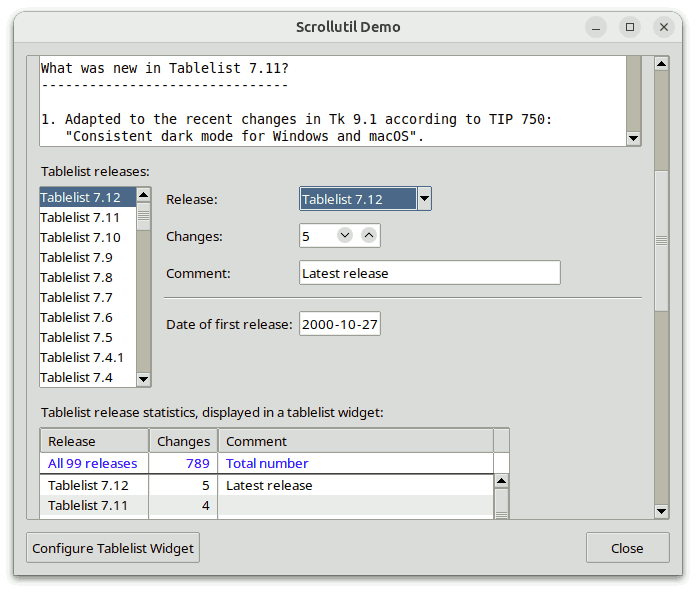
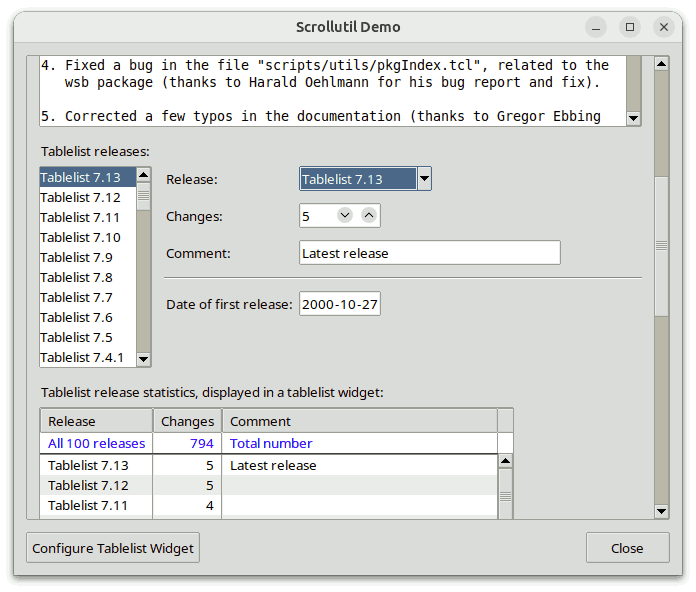
Scrollutil: Updated for version 2.12. See the ChangeLog for details.

diff --git a/modules/scrollutil/doc/scrollutil.html b/modules/scrollutil/doc/scrollutil.html
@@ -14,7 +14,7 @@
   <div>
     <h1>Scrollutil Programmer's Guide</h1>
 
-    <h2>For Scrollutil Version 2.11</h2>
+    <h2>For Scrollutil Version 2.12</h2>
 
     <h3>by</h3>
 
@@ -337,8 +337,8 @@
     </address>
   </blockquote>
 
-  <p>The distribution file is <code>scrollutil2.11.tar.gz</code> for UNIX and
-  <code>scrollutil2_11.zip</code> for Windows.&nbsp; These files contain the
+  <p>The distribution file is <code>scrollutil2.12.tar.gz</code> for UNIX and
+  <code>scrollutil2_12.zip</code> for Windows.&nbsp; These files contain the
   same information, except for the additional carriage return character
   preceding the linefeed at the end of each line in the text files for
   Windows.</p>
@@ -361,27 +361,27 @@
 
   <p>To install Scrollutil <i>on UNIX</i>, <code>cd</code> to the desired
   directory and unpack the distribution file
-  <code>scrollutil2.11.tar.gz</code>:</p>
+  <code>scrollutil2.12.tar.gz</code>:</p>
 
   <blockquote>
     <pre>
-gunzip -c scrollutil2.11.tar.gz | tar -xf - </pre>
+gunzip -c scrollutil2.12.tar.gz | tar -xf - </pre>
   </blockquote>
 
   <p>On most UNIX systems this can be replaced with</p>
 
   <blockquote>
     <pre>
-tar -zxf scrollutil2.11.tar.gz </pre>
+tar -zxf scrollutil2.12.tar.gz </pre>
   </blockquote>
 
-  <p>Both commands will create a directory named <code>scrollutil2.11</code>,
+  <p>Both commands will create a directory named <code>scrollutil2.12</code>,
   with the subdirectories <code>demos</code>, <code>doc</code>, and
   <code>scripts</code>.</p>
 
   <p><i>On Windows</i>, use WinZip or some other program capable of unpacking
-  the distribution file <code>scrollutil2_11.zip</code> into the directory
-  <code>scrollutil2.11</code>, with the subdirectories <code>demos</code>,
+  the distribution file <code>scrollutil2_12.zip</code> into the directory
+  <code>scrollutil2.12</code>, with the subdirectories <code>demos</code>,
   <code>doc</code>, and <code>scripts</code>.</p>
 
   <p>Notice that in tklib the Scrollutil <code>demos</code> directory is
@@ -1495,7 +1495,7 @@ foreach country $countryList {
   command, thus making sure that the mouse button 2 events sent to the widget
   will only be handled by the widget itself if it has the focus, otherwise they
   will result in scanning the scrollableframe's content.&nbsp; During the scan
-  the cursor will take on the shape of a pointing hand, and by draggging the
+  the cursor will take on the shape of a pointing hand, and by dragging the
   mouse, the content frame will drag at high speed through the window, in the
   direction the mouse moves.</p>
 
@@ -2307,13 +2307,9 @@ proc restoreSel nb {
 # Set the scrollednotebook's -height and -width options to the
 # maximum requested height and width of all panes, respectively
 #</span>
-after 50 [list resizeNb $nb]
-
-proc resizeNb nb {
-    <span class="red">$nb adjustsize
-    foreach sa [$nb tabs] {
-        $sa configure -yscrollbarmode dynamic</span>                   ;<span class="cmt"># the default</span>
-    }
+<span class="red">$nb adjustsize
+foreach sa [$nb tabs] {
+    $sa configure -yscrollbarmode dynamic</span>               ;<span class="cmt"># restore the default</span>
 }
 </pre>
   </blockquote>

diff --git a/modules/scrollutil/doc/plainnotebook.html b/modules/scrollutil/doc/plainnotebook.html
@@ -13,7 +13,7 @@
   <div>
     <h1>The <code><b>scrollutil::plainnotebook</b></code> Command</h1>
 
-    <h2>For Scrollutil Version 2.11</h2>
+    <h2>For Scrollutil Version 2.12</h2>
 
     <h3>by</h3>
 
@@ -703,7 +703,7 @@ package require scrollutil_tile
         added to the pagesman widget later.</dd>
 
         <dd class="tm">This subcommand, together with the <code><b><a href=
-        "#caller">-caller</a></b></code> option, makes it easy to to write
+        "#caller">-caller</a></b></code> option, makes it easy to write
         applications in which the user can descend from a plainnotebook to
         another one within a common pagesman parent with a single mouse click
         and switch back in the same way to the original one.&nbsp; For example,

diff --git a/modules/scrollutil/doc/index.html b/modules/scrollutil/doc/index.html
@@ -1,7 +1,7 @@
 <!DOCTYPE html>
 <html>
 <head>
-  <title>The Scrolling Utilities Package Scrollutil 2.11</title>
+  <title>The Scrolling Utilities Package Scrollutil 2.12</title>
 
   <meta name="Author" content="Csaba Nemethi">
   <meta name="Keywords" content=
@@ -12,7 +12,7 @@
 
 <body>
   <div>
-    <h1>The Scrolling Utilities Package Scrollutil 2.11</h1>
+    <h1>The Scrolling Utilities Package Scrollutil 2.12</h1>
 
     <h3>by</h3>
 

diff --git a/modules/scrollutil/doc/scrollableframe.html b/modules/scrollutil/doc/scrollableframe.html
@@ -15,7 +15,7 @@
     <h1>The <code><b>scrollutil::scrollableframe</b></code> and<br>
     <code><b>scrollutil::adaptBtn2EventHandling</b></code> Commands</h1>
 
-    <h2>For Scrollutil Version 2.11</h2>
+    <h2>For Scrollutil Version 2.12</h2>
 
     <h3>by</h3>
 

diff --git a/modules/scrollutil/doc/scrollednotebook.html b/modules/scrollutil/doc/scrollednotebook.html
@@ -16,7 +16,7 @@
     <h1>The <code><b>scrollutil::scrollednotebook</b></code> Command<br>
     and the <code><b>closetab</b></code> Style Element</h1>
 
-    <h2>For Scrollutil Version 2.11</h2>
+    <h2>For Scrollutil Version 2.12</h2>
 
     <h3>by</h3>
 

diff --git a/modules/scrollutil/doc/scrollarea.html b/modules/scrollutil/doc/scrollarea.html
@@ -15,7 +15,7 @@
     <h1>The <code><b>scrollutil::scrollarea</b></code> and<br>
     <code><b>scrollutil::getscrollarea</b></code> Commands</h1>
 
-    <h2>For Scrollutil Version 2.11</h2>
+    <h2>For Scrollutil Version 2.12</h2>
 
     <h3>by</h3>
 

diff --git a/modules/scrollutil/doc/scrollsync.html b/modules/scrollutil/doc/scrollsync.html
@@ -15,7 +15,7 @@
     <h1>The <code><b>scrollutil::scrollsync</b></code> and<br>
     <code><b>scrollutil::getscrollsync</b></code> Commands</h1>
 
-    <h2>For Scrollutil Version 2.11</h2>
+    <h2>For Scrollutil Version 2.12</h2>
 
     <h3>by</h3>
 

diff --git a/modules/scrollutil/doc/wheelEvent.html b/modules/scrollutil/doc/wheelEvent.html
@@ -16,7 +16,7 @@
     <h1>Commands Related to Mouse Wheel and
     <code><b>&lt;TouchpadScroll&gt;</b></code> Event Handling</h1>
 
-    <h2>For Scrollutil Version 2.11</h2>
+    <h2>For Scrollutil Version 2.12</h2>
 
     <h3>by</h3>
 

diff --git a/modules/scrollutil/doc/pagesman.html b/modules/scrollutil/doc/pagesman.html
@@ -13,7 +13,7 @@
   <div>
     <h1>The <code><b>scrollutil::pagesman</b></code> Command</h1>
 
-    <h2>For Scrollutil Version 2.11</h2>
+    <h2>For Scrollutil Version 2.12</h2>
 
     <h3>by</h3>
 
